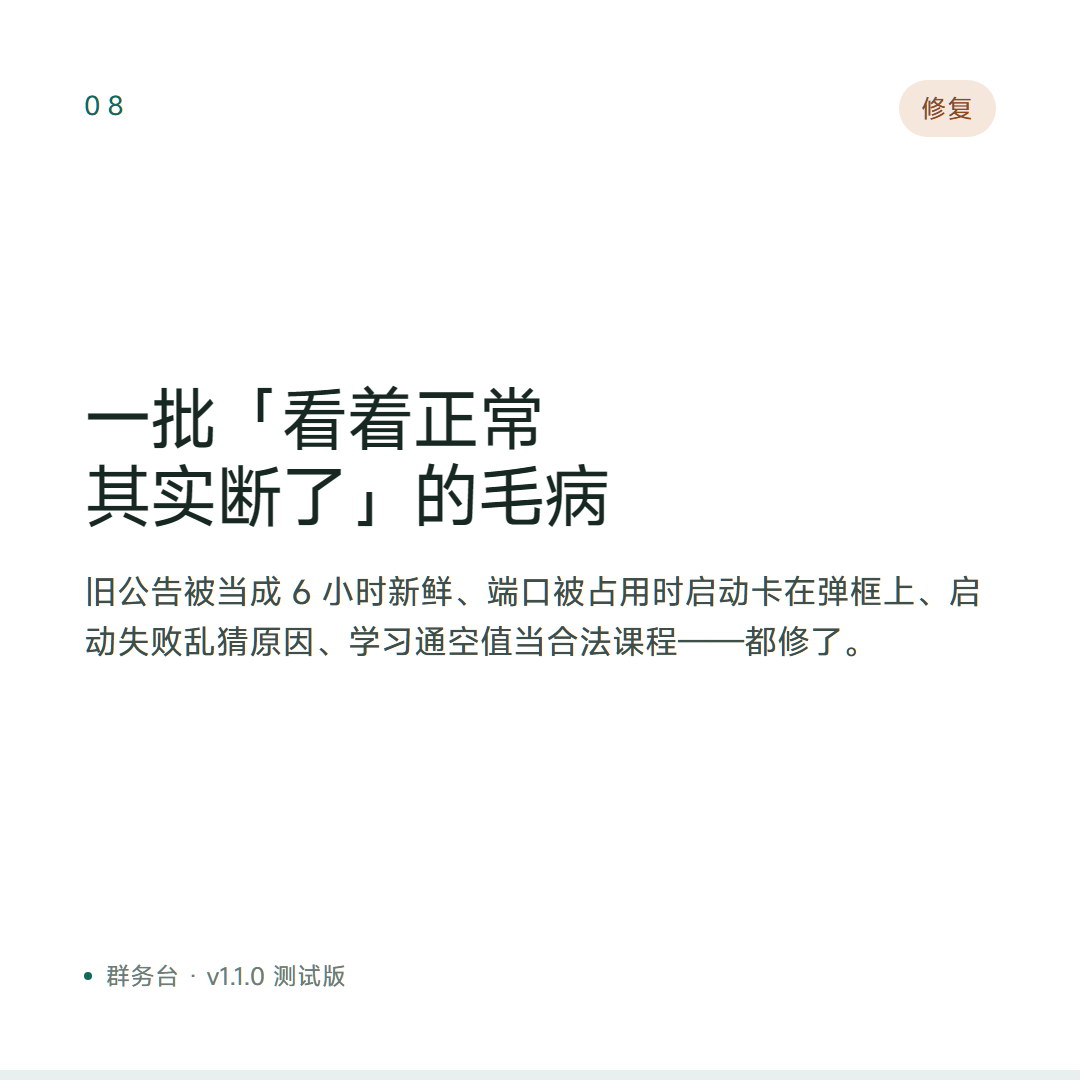
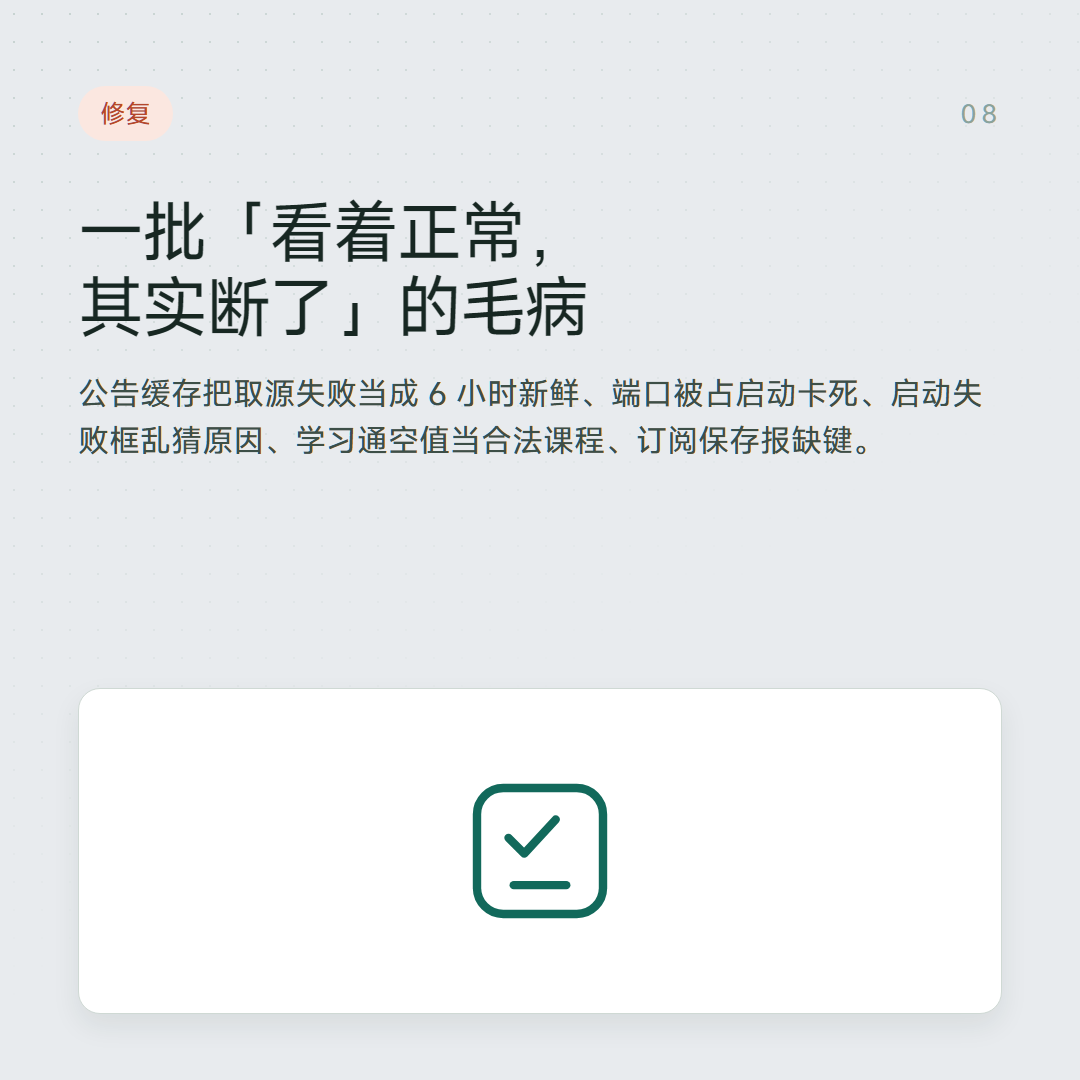
docs: 宣传图第二轮（九宫格产品出镜 + 海报列出 8 处变化）
九宫格改用 App 真机截图（当前发布版实测），06 改用横竖对比图；海报副标题与 8 条变化清单；手机端截图换为真实渲染。

diff --git a/docs/promo/beta-grid.html b/docs/promo/beta-grid.html
@@ -2,106 +2,164 @@
 <html lang="zh-CN">
 <head>
 <meta charset="utf-8">
-<title>群务台 · v1.1.0 测试版 九宫格</title>
+<title>群务台 1.1.0 测试版 · 九宫格</title>
 <style>
-:root{
-  --paper:#fff;--ink:#172722;--muted:#3d4f47;--line:#dfe4e2;
-  --teal:#12695b;--teal-soft:#d6ede7;--warm:#f7efe8;
-  --font:"MiSans","HarmonyOS Sans","PingFang SC","Microsoft YaHei",sans-serif;
-}
+:root{--page:#e8ebee;--paper:#fff;--ink:#172722;--muted:#3d4f47;--teal:#12695b;--teal-soft:#d6ede7;--fix:#b4472c;--fix-bg:#fbe7e0;--font:"MiSans","HarmonyOS Sans","PingFang SC","Microsoft YaHei",sans-serif}
 *{box-sizing:border-box}
-html,body{margin:0;background:#e8ebee;font-family:var(--font);font-synthesis:none;color:var(--ink)}
+html,body{margin:0;background:#fff}
 .sheet{width:3240px;height:3240px;display:grid;grid-template-columns:repeat(3,1080px);grid-template-rows:repeat(3,1080px)}
-.tile{position:relative;overflow:hidden;background:var(--paper);padding:88px 84px;display:flex;flex-direction:column}
-.tile:after{content:"";position:absolute;left:0;right:0;bottom:0;height:10px;background:var(--teal);opacity:.10}
-.idx{font-size:26px;font-weight:700;letter-spacing:.26em;color:var(--teal)}
-.chip{position:absolute;top:80px;right:84px;padding:12px 22px;border-radius:999px;background:var(--teal-soft);color:var(--teal);font-size:25px;font-weight:700;letter-spacing:.06em}
-.chip.fix{background:#f6e7dd;color:#8a4b1e}
-h2{margin:auto 0 0;font-size:68px;line-height:1.13;letter-spacing:-.035em;font-weight:750}
-p{margin:32px 0 auto;font-size:33px;line-height:1.52;color:var(--muted);font-weight:500}
-.foot{margin-top:0;padding-top:34px;display:flex;align-items:center;gap:14px;font-size:24px;color:#6b7d76;letter-spacing:.02em}
-.foot b{width:8px;height:8px;border-radius:50%;background:var(--teal);display:inline-block}
-/* 封面 */
-.cover{background:var(--teal);color:#fff;justify-content:space-between}
-.cover:after{background:#fff;opacity:.14}
-.cover .mark{display:flex;align-items:center;gap:16px;font-size:30px;font-weight:700;letter-spacing:.14em}
-.cover .mark i{display:grid;place-items:center;width:52px;height:52px;border:3px solid #fff;border-radius:50%;font-size:30px;font-style:normal;line-height:1}
-.cover .ver{margin-top:auto}
-.cover .ver .v{font-size:132px;line-height:1;letter-spacing:-.05em;font-weight:750}
-.cover .ver .t{margin-top:18px;font-size:60px;font-weight:700;letter-spacing:.02em}
-.cover .lead{margin-top:36px;font-size:33px;line-height:1.5;color:#cfe6df;font-weight:500}
-.cover .foot{color:#a9cdc4}
-.cover .foot b{background:#8fd0c0}
+.tile{position:relative;overflow:hidden;display:flex;flex-direction:column;padding:86px 78px 66px;background:var(--page);color:var(--ink);font-family:var(--font);font-synthesis:none}
+.tile:before{content:"";position:absolute;inset:0;pointer-events:none;opacity:.45;background-image:radial-gradient(#9eb5ac 1px,transparent 1px);background-size:28px 28px;mask-image:linear-gradient(150deg,black,transparent 60%)}
+.tile>*{position:relative;z-index:1}
+.head{display:flex;align-items:center;justify-content:space-between;gap:24px}
+.chip{padding:11px 22px;border-radius:999px;font-size:25px;font-weight:800;letter-spacing:.02em}
+.chip.new{background:var(--teal);color:#fff}
+.chip.fix{background:var(--fix-bg);color:var(--fix)}
+.idx{font-size:25px;font-weight:800;letter-spacing:.2em;color:#8aa39b;font-variant-numeric:tabular-nums}
+h2{margin:54px 0 0;font-size:66px;line-height:1.14;letter-spacing:-.035em;font-weight:760}
+p{margin:26px 0 0;font-size:31px;line-height:1.5;font-weight:500;color:var(--muted)}
+.visual{margin-top:auto}
+/* ---------- 封面 ---------- */
+.cover{padding:80px 78px 0;background:linear-gradient(168deg,#f3f6f5,#e5e9ec 62%)}
+.cbrand{display:flex;align-items:center;gap:13px;color:var(--teal);font-size:20px;font-weight:800;letter-spacing:.09em}
+.mark{display:grid;place-items:center;width:38px;height:38px;border:2px solid var(--teal);border-radius:50%;font-size:22px;line-height:1;letter-spacing:0}
+.cover h1{margin:36px 0 0;font-size:78px;line-height:1.09;letter-spacing:-.045em;font-weight:760}
+.cmeta{display:flex;align-items:center;gap:18px;margin-top:30px}
+.cbadge{padding:11px 22px;border-radius:999px;background:var(--teal);color:#fff;font-size:25px;font-weight:800;font-variant-numeric:tabular-nums}
+.csub{font-size:27px;font-weight:600;color:var(--muted)}
+.clead{margin:24px 0 0;max-width:860px;font-size:28px;line-height:1.46;font-weight:500;color:var(--muted)}
+.cvisual{position:relative;margin-top:auto;height:566px}
+.cd{position:absolute;left:0;bottom:0;width:100%;border:1px solid #c9d4cf;border-bottom:0;border-radius:15px 15px 0 0;box-shadow:0 -14px 34px rgba(20,49,39,.13)}
+.cp{position:absolute;right:8px;bottom:0;width:268px;border:9px solid #1d2b26;border-bottom:0;border-radius:32px 32px 0 0;box-shadow:0 -12px 30px rgba(20,49,39,.2)}
+/* ---------- 手机框 ---------- */
+.phone{width:404px;margin:0 auto;border:12px solid #1d2b26;border-radius:44px;overflow:hidden;background:#fff;box-shadow:0 24px 46px rgba(20,49,39,.18)}
+.phone img{display:block;width:100%;height:556px;object-fit:cover;object-position:top center}
+.phone.mid img{object-position:center}
+.phone.bot img{object-position:bottom center}
+/* ---------- 桌面窗口 ---------- */
+.win{width:576px;margin:0 auto;border:1px solid #c9d4cf;border-radius:18px;overflow:hidden;background:#fff;box-shadow:0 22px 44px rgba(20,49,39,.15)}
+.win img{display:block;width:100%;height:548px;object-fit:cover;object-position:bottom center}
+/* ---------- 来源卡片 ---------- */
+.sources{display:grid;grid-template-columns:1fr 1fr;gap:20px}
+.src{display:flex;align-items:center;gap:15px;padding:27px 28px;border:1px solid #cfd9d4;border-radius:18px;background:#fff;box-shadow:0 10px 24px rgba(20,49,39,.07)}
+.src i{flex:0 0 auto;width:16px;height:16px;border-radius:50%;background:var(--teal)}
+.src.mute i{background:#b6c4be}
+.src b{font-size:31px;font-weight:750}
+.src s{margin-left:auto;font-size:22px;font-weight:700;text-decoration:none;color:var(--teal)}
+.src.mute s{color:#9aada6}
+/* ---------- 版本流 ---------- */
+.flow{display:grid;justify-items:center;gap:18px;padding-bottom:26px}
+.vcard{min-width:560px;text-align:center;padding:26px 34px;border:1px solid #cfd9d4;border-radius:18px;background:#fff;font-size:33px;font-weight:800;letter-spacing:-.01em;color:#6c8079;font-variant-numeric:tabular-nums}
+.vcard.beta{border-color:#8fbfb2;background:var(--teal-soft);color:var(--teal);box-shadow:0 12px 26px rgba(18,105,91,.14)}
+.arrow{color:#8aa39b;font-size:34px;line-height:1}
+/* ---------- 图标块 ---------- */
+.glyph{display:grid;place-items:center;height:326px;border:1px solid #cfd9d4;border-radius:22px;background:#fff;box-shadow:0 12px 28px rgba(20,49,39,.08)}
+.badge-rot{align-self:flex-start;margin-top:26px;padding:11px 22px;border-radius:999px;background:var(--teal);color:#fff;font-size:24px;font-weight:800}
+.orient{display:flex;align-items:flex-start;justify-content:center;gap:52px;padding-bottom:36px}
+.oitem{display:grid;justify-items:center;gap:20px}
+.ph{position:relative;display:grid;place-items:center;border:5px solid #1d2b26;border-radius:24px;background:#fff}
+.ph.l{width:252px;height:132px;border-color:#b6c4be}
+.ph.l:after{content:"";position:absolute;left:-14px;right:-14px;top:50%;height:6px;border-radius:3px;background:var(--fix);transform:rotate(-16deg)}
+.ph.p{width:154px;height:268px;border-color:var(--teal)}
+.cap{font-size:24px;font-weight:700;color:#8aa39b}
+.cap.ok{color:var(--teal)}
 </style>
 </head>
 <body>
 <div class="sheet">
 
-  <section class="tile cover">
-    <div class="mark"><i>✓</i><span>群务台</span></div>
-    <div class="ver">
-      <div class="v">v1.1.0</div>
-      <div class="t">测试版 Beta</div>
-      <p class="lead">群里的通知，自动变成待办。<br>相对 v1.0.0 正式版，这一版有 8 处变化 —— 往后翻。</p>
+  <!-- 1 封面 -->
+  <div class="tile cover">
+    <div class="cbrand"><span class="mark">✓</span><span>群务台 · notice-hub</span></div>
+    <h1>群里的通知，<br>自动变成待办</h1>
+    <div class="cmeta"><span class="cbadge">v1.1.0 测试版</span><span class="csub">相对 v1.0.0 正式版，有 8 处变化</span></div>
+    <p class="clead">QQ 群、钉钉群、学习通、微信群 → 一份待办清单，一个日历。</p>
+    <div class="cvisual">
+      <img class="cd" src="../screenshots/desktop-tasks.png" alt="群务台桌面端">
+      <img class="cp" src="shots/phone-overview.png" alt="群务台手机端">
     </div>
-    <div class="foot"><b></b><span>github.com/ExpertKT/notice-hub</span></div>
-  </section>
+  </div>
 
-  <section class="tile">
-    <span class="idx">01</span><span class="chip">新增</span>
-    <h2>钉钉群、学习通、微信群<br>也一起收进来</h2>
-    <p>v1.0.0 只认 QQ 群。这版多了三条来源：钉钉群消息、学习通作业与考试、微信群。</p>
-    <div class="foot"><b></b><span>群务台 · v1.1.0 测试版</span></div>
-  </section>
+  <!-- 2 多来源 -->
+  <div class="tile">
+    <div class="head"><span class="chip new">新增</span><span class="idx">01</span></div>
+    <h2>钉钉群、学习通、<br>微信群也收进来</h2>
+    <p>v1.0.0 只接 QQ 群。这一版把另外三种来源接进同一条待办流水线，各自开关、各自的群白名单。</p>
+    <div class="visual sources">
+      <div class="src mute"><i></i><b>QQ 群</b><s>原有</s></div>
+      <div class="src"><i></i><b>钉钉群</b><s>新增</s></div>
+      <div class="src"><i></i><b>学习通</b><s>新增</s></div>
+      <div class="src"><i></i><b>微信群</b><s>新增</s></div>
+    </div>
+  </div>
 
-  <section class="tile">
-    <span class="idx">02</span><span class="chip">新增</span>
-    <h2>设置页一键检查更新，<br>下载即覆盖</h2>
-    <p>不用再手动解压、不用去 Releases 找包。查到新版本 → 下载 → 就地覆盖，并校验 sha256；你的 .env 和 data 不动。</p>
-    <div class="foot"><b></b><span>群务台 · v1.1.0 测试版</span></div>
-  </section>
+  <!-- 3 一键更新 -->
+  <div class="tile">
+    <div class="head"><span class="chip new">新增</span><span class="idx">02</span></div>
+    <h2>设置页一键更新，<br>下载即覆盖</h2>
+    <p>以前要自己去 GitHub 找包、手动解压。现在设置页能查新版本、下载并就地覆盖，装完校验 sha256。</p>
+    <div class="visual flow">
+      <div class="vcard">v1.0.0 正式版</div>
+      <div class="arrow">↓</div>
+      <div class="vcard beta">v1.1.0-beta.1 测试版</div>
+    </div>
+  </div>
 
-  <section class="tile">
-    <span class="idx">03</span><span class="chip">新增</span>
-    <h2>接入自检：<br>卡住时告诉你卡在哪</h2>
-    <p>把「能不能收消息」逐段查开，直接指出第一处断点该修什么。顺带修掉根因——扫码登录成功、页面却毫无反应。</p>
-    <div class="foot"><b></b><span>群务台 · v1.1.0 测试版</span></div>
-  </section>
+  <!-- 4 接入自检 -->
+  <div class="tile">
+    <div class="head"><span class="chip new">新增</span><span class="idx">03</span></div>
+    <h2>卡住时，<br>告诉你卡在哪</h2>
+    <p>新增接入自检：QQ 登录、引擎托管、公网日历、最近同步逐项判绿黄红，并给出下一步该做什么。</p>
+    <div class="visual win"><img src="../screenshots/rail-panels.png" alt="群务台服务自检面板"></div>
+  </div>
 
-  <section class="tile">
-    <span class="idx">04</span><span class="chip fix">修复</span>
+  <!-- 5 手机扫码闪退 -->
+  <div class="tile">
+    <div class="head"><span class="chip fix">修复</span><span class="idx">04</span></div>
     <h2>手机点扫码，<br>不再闪退</h2>
-    <p>v1.0.0 的包一进扫码页就崩：扫码库少声明了 androidx.core。现已补上，实测点扫码 → 取景框 → 相机权限 → 返回，全程不崩。</p>
-    <div class="foot"><b></b><span>群务台 · v1.1.0 测试版</span></div>
-  </section>
+    <p>崩溃栈是 android 找不到 androidx.core：扫码库少声明了这个依赖。现已补上，实测点扫码 → 取景框 → 相机权限 → 返回，全程不崩。</p>
+    <div class="visual phone mid"><img src="shots/phone-connect.png" alt="群务台手机连接页"></div>
+  </div>
 
-  <section class="tile">
-    <span class="idx">05</span><span class="chip">新增</span>
-    <h2>连不上、令牌失效，<br>都有出口</h2>
-    <p>三种状态分别给不同提示，页面上多了「重新配对」按钮。以前只有长按返回键一条暗路，App 里没有任何文字提示。</p>
-    <div class="foot"><b></b><span>群务台 · v1.1.0 测试版</span></div>
-  </section>
+  <!-- 6 配对出口 -->
+  <div class="tile">
+    <div class="head"><span class="chip new">新增</span><span class="idx">05</span></div>
+    <h2>连不上、失效，<br>都有出口</h2>
+    <p>连不上 / 令牌失效 / 从没连上过，分别给不同提示；页面上多了「重新配对」按钮，不用再猜长按返回键。</p>
+    <div class="visual phone"><img src="shots/phone-relink.png" alt="群务台手机连不上时的提示"></div>
+  </div>
 
-  <section class="tile">
-    <span class="idx">06</span><span class="chip fix">修复</span>
-    <h2>扫码页不再横着</h2>
-    <p>扫码库自带清单把这一页钉成了横屏，现在跟随手机方向。</p>
-    <div class="foot"><b></b><span>群务台 · v1.1.0 测试版</span></div>
-  </section>
+  <!-- 7 扫码页横屏 -->
+  <div class="tile">
+    <div class="head"><span class="chip fix">修复</span><span class="idx">06</span></div>
+    <h2>扫码页<br>不再横着</h2>
+    <p>扫码库自带清单把取景页钉成了横屏，现已改为跟随手机方向。</p>
+    <span class="badge-rot">横屏 → 跟随手机</span>
+    <div class="visual orient">
+      <div class="oitem"><span class="ph l"><svg viewBox="0 0 64 64" width="56" height="56" fill="none" stroke="#b6c4be" stroke-width="6" stroke-linecap="round"><path d="M6 22V10a4 4 0 0 1 4-4h12M42 6h12a4 4 0 0 1 4 4v12M58 42v12a4 4 0 0 1-4 4H42M22 58H10a4 4 0 0 1-4-4V42"/></svg></span><span class="cap">以前：横着拿</span></div>
+      <div class="oitem"><span class="ph p"><svg viewBox="0 0 64 64" width="60" height="60" fill="none" stroke="#12695b" stroke-width="6" stroke-linecap="round"><path d="M6 22V10a4 4 0 0 1 4-4h12M42 6h12a4 4 0 0 1 4 4v12M58 42v12a4 4 0 0 1-4 4H42M22 58H10a4 4 0 0 1-4-4V42"/></svg></span><span class="cap ok">现在：跟随手机</span></div>
+    </div>
+  </div>
 
-  <section class="tile">
-    <span class="idx">07</span><span class="chip">新增</span>
-    <h2>收件箱里<br>能看见附件图</h2>
-    <p>QQ 群里的图片附件直接显示在收件箱，正文照常保留；取图接口要鉴权，只认唯一文件，只送图片。</p>
-    <div class="foot"><b></b><span>群务台 · v1.1.0 测试版</span></div>
-  </section>
+  <!-- 8 收件箱附件图 -->
+  <div class="tile">
+    <div class="head"><span class="chip new">新增</span><span class="idx">07</span></div>
+    <h2>收件箱里，<br>能看见附件图</h2>
+    <p>群里发的截图、课表、通知单，以前只剩一行文字。现在附件图直接渲染在收件箱正文下方，点不开的会自己退场。</p>
+    <div class="visual glyph">
+      <svg viewBox="0 0 64 64" width="168" height="168" fill="none" stroke="#12695b" stroke-width="3.2" stroke-linecap="round" stroke-linejoin="round"><rect x="6" y="11" width="52" height="42" rx="7"/><circle cx="22" cy="26" r="5"/><path d="M10 47l14-13 10 9 9-8 11 12"/></svg>
+    </div>
+  </div>
 
-  <section class="tile">
-    <span class="idx">08</span><span class="chip fix">修复</span>
-    <h2>一批「看着正常<br>其实断了」的毛病</h2>
-    <p>旧公告被当成 6 小时新鲜、端口被占用时启动卡在弹框上、启动失败乱猜原因、学习通空值当合法课程——都修了。</p>
-    <div class="foot"><b></b><span>群务台 · v1.1.0 测试版</span></div>
-  </section>
+  <!-- 9 一批隐蔽毛病 -->
+  <div class="tile">
+    <div class="head"><span class="chip fix">修复</span><span class="idx">08</span></div>
+    <h2>一批「看着正常，<br>其实断了」的毛病</h2>
+    <p>公告缓存把取源失败当成 6 小时新鲜、端口被占启动卡死、启动失败框乱猜原因、学习通空值当合法课程、订阅保存报缺键。</p>
+    <div class="visual glyph">
+      <svg viewBox="0 0 64 64" width="168" height="168" fill="none" stroke="#12695b" stroke-width="3.2" stroke-linecap="round" stroke-linejoin="round"><rect x="8" y="8" width="48" height="48" rx="10"/><path d="M20 27l6 6 12-13"/><path d="M22 45h20"/></svg>
+    </div>
+  </div>
 
 </div>
 </body>

diff --git a/docs/promo/poster.html b/docs/promo/poster.html
@@ -6,7 +6,7 @@
 <title>群务台 · notice-hub</title>
 <style>
 :root{--page:#e8ebee;--paper:#fff;--paper-alt:#f2f4f6;--ink:#172722;--muted:#3d4f47;--line:#b0b8bd;--teal:#12695b;--teal-soft:#d6ede7;--warm:#f7efe8;--shadow:0 18px 40px rgba(20,49,39,.10);--font:"MiSans","HarmonyOS Sans","PingFang SC","Microsoft YaHei",sans-serif}
-*{box-sizing:border-box}html,body{margin:0;background:var(--page);color:var(--ink);font-family:var(--font);font-synthesis:none}body{min-width:320px}.poster{position:relative;overflow:hidden;width:100vw;height:100vh;min-height:560px;padding:clamp(30px,4.2vw,72px) clamp(30px,5.4vw,104px) clamp(24px,3.4vw,58px);background:var(--page)}.poster:before{content:"";position:absolute;inset:0;pointer-events:none;opacity:.4;background-image:radial-gradient(#9eb5ac 1px,transparent 1px);background-size:28px 28px;mask-image:linear-gradient(90deg,black,transparent 45%)}.frame{position:relative;z-index:1;display:grid;grid-template-columns:minmax(0,.94fr) minmax(560px,1.34fr);gap:clamp(28px,3.4vw,72px);height:100%;max-width:1740px;margin:auto;align-items:center}.copy{display:flex;flex-direction:column;align-items:flex-start;min-width:0}.brand{display:flex;align-items:center;gap:12px;margin-bottom:clamp(34px,5vh,62px);color:var(--teal);font-size:19px;font-weight:700;letter-spacing:.08em}.brand-mark{display:grid;place-items:center;width:34px;height:34px;border:2px solid var(--teal);border-radius:50%;font-size:20px;line-height:1}.title{margin:0;max-width:700px;font-size:clamp(42px,5.2vw,88px);line-height:1.08;letter-spacing:-.055em;font-weight:750}.subtitle{margin:24px 0 0;color:var(--muted);font-size:clamp(18px,1.7vw,29px);line-height:1.4;font-weight:500}.points{display:grid;gap:14px;margin:38px 0 0;padding:0;list-style:none;color:var(--muted);font-size:clamp(14px,1.15vw,19px);line-height:1.45}.points li{display:flex;gap:12px;align-items:flex-start}.points li:before{content:"";flex:0 0 8px;width:8px;height:8px;margin-top:.58em;border-radius:50%;background:var(--teal)}.footer{display:flex;flex-wrap:wrap;gap:12px 20px;align-items:center;margin-top:auto;padding-top:30px;color:var(--muted);font-size:clamp(11px,.85vw,14px);line-height:1.4}.badge{padding:8px 12px;border:1px solid #b4c3bd;border-radius:999px;background:rgba(255,255,255,.55)}.url{font-variant-numeric:tabular-nums;letter-spacing:.02em}.visual{position:relative;min-width:0;display:flex;align-items:center;justify-content:center;padding:18px 0 18px 20px}.visual:before{content:"";position:absolute;inset:12% -4% 5% 8%;border:1px solid rgba(18,105,91,.22);border-radius:24px;background:rgba(214,237,231,.38);transform:rotate(-2deg);z-index:-1}.desktop-shot{display:block;width:100%;max-height:none;object-fit:cover;object-position:top left;border:1px solid #b6c8c0;border-radius:16px;box-shadow:var(--shadow);background:#fff}.phone-shot{position:absolute;right:-3%;bottom:-8%;width:22%;max-height:none;object-fit:cover;object-position:top left;border:5px solid #fff;border-radius:22px;box-shadow:0 15px 30px rgba(20,49,39,.18);transform:rotate(2.5deg);background:#fff}.corner{position:absolute;right:0;top:2%;width:44px;height:44px;border-top:1px solid var(--teal);border-right:1px solid var(--teal)}
+*{box-sizing:border-box}html,body{margin:0;background:var(--page);color:var(--ink);font-family:var(--font);font-synthesis:none}body{min-width:320px}.poster{position:relative;overflow:hidden;width:100vw;height:100vh;min-height:560px;padding:clamp(30px,4.2vw,72px) clamp(30px,5.4vw,104px) clamp(24px,3.4vw,58px);background:var(--page)}.poster:before{content:"";position:absolute;inset:0;pointer-events:none;opacity:.4;background-image:radial-gradient(#9eb5ac 1px,transparent 1px);background-size:28px 28px;mask-image:linear-gradient(90deg,black,transparent 45%)}.frame{position:relative;z-index:1;display:grid;grid-template-columns:minmax(0,.94fr) minmax(560px,1.34fr);gap:clamp(28px,3.4vw,72px);height:100%;max-width:1740px;margin:auto;align-items:center}.copy{display:flex;flex-direction:column;align-items:flex-start;min-width:0}.brand{display:flex;align-items:center;gap:12px;margin-bottom:clamp(34px,5vh,62px);color:var(--teal);font-size:19px;font-weight:700;letter-spacing:.08em}.brand-mark{display:grid;place-items:center;width:34px;height:34px;border:2px solid var(--teal);border-radius:50%;font-size:20px;line-height:1}.title{margin:0;max-width:700px;font-size:clamp(42px,5.2vw,88px);line-height:1.08;letter-spacing:-.055em;font-weight:750}.subtitle{margin:24px 0 0;color:var(--muted);font-size:clamp(18px,1.7vw,29px);line-height:1.4;font-weight:500}.changes{display:grid;grid-template-columns:1fr 1fr;gap:11px 26px;margin:34px 0 0;padding:0;list-style:none;color:var(--muted);font-size:clamp(13px,1.02vw,17px);line-height:1.36}.changes li{display:flex;gap:10px;align-items:flex-start}.changes b{flex:0 0 auto;display:grid;place-items:center;width:1.6em;height:1.6em;margin-top:.05em;border-radius:7px;background:var(--teal-soft);color:var(--teal);font-size:.8em;font-weight:800;font-variant-numeric:tabular-nums}.footer{display:flex;flex-wrap:wrap;gap:12px 20px;align-items:center;margin-top:auto;padding-top:30px;color:var(--muted);font-size:clamp(11px,.85vw,14px);line-height:1.4}.badge{padding:8px 12px;border:1px solid #b4c3bd;border-radius:999px;background:rgba(255,255,255,.55)}.url{font-variant-numeric:tabular-nums;letter-spacing:.02em}.visual{position:relative;min-width:0;display:flex;align-items:center;justify-content:center;padding:18px 0 18px 20px}.visual:before{content:"";position:absolute;inset:12% -4% 5% 8%;border:1px solid rgba(18,105,91,.22);border-radius:24px;background:rgba(214,237,231,.38);transform:rotate(-2deg);z-index:-1}.desktop-shot{display:block;width:100%;max-height:none;object-fit:cover;object-position:top left;border:1px solid #b6c8c0;border-radius:16px;box-shadow:var(--shadow);background:#fff}.phone-shot{position:absolute;right:-3%;bottom:-8%;width:22%;max-height:none;object-fit:cover;object-position:top left;border:5px solid #fff;border-radius:22px;box-shadow:0 15px 30px rgba(20,49,39,.18);transform:rotate(2.5deg);background:#fff}.corner{position:absolute;right:0;top:2%;width:44px;height:44px;border-top:1px solid var(--teal);border-right:1px solid var(--teal)}
 @media (max-aspect-ratio:1.25/1){.poster{height:auto;min-height:100vh;padding:44px 34px 30px}.frame{grid-template-columns:1fr;gap:30px;min-height:calc(100vh - 74px);align-content:start}.brand{margin-bottom:36px}.title{font-size:clamp(42px,8vw,70px)}.visual{order:2;padding:10px 0 30px}.desktop-shot{max-height:none}.phone-shot{right:1%;bottom:-5%;width:24%;max-height:none}.footer{margin-top:32px}}
 @media (max-width:700px){.poster{padding:34px 24px 26px}.frame{gap:24px}.brand{margin-bottom:34px;font-size:16px}.title{font-size:clamp(38px,10vw,58px)}.subtitle{margin-top:18px;font-size:19px}.points{margin-top:26px;gap:10px;font-size:14px}.footer{margin-top:24px;gap:8px;font-size:10px}.badge{padding:6px 9px}.visual{padding-top:2px}.desktop-shot{max-height:none}.phone-shot{width:25%;border-width:3px;border-radius:14px}}
 @media (prefers-reduced-motion:reduce){.desktop-shot,.phone-shot,.visual:before{transform:none}}
@@ -19,17 +19,22 @@
       <div class="brand"><span class="brand-mark">✓</span><span>群务台</span></div>
       <h1 class="title">群里的通知，自动变成待办</h1>
       <p class="subtitle">v1.1.0 测试版 · 相对 v1.0.0 有 8 处变化</p>
-      <ul class="points">
-        <li>钉钉群、学习通、微信群，也一起收进来</li>
-        <li>设置页一键检查更新，下载即覆盖</li>
-        <li>手机点扫码不再闪退，连不上也有出口</li>
-      </ul>
+      <ol class="changes">
+        <li><b>1</b><span>钉钉群、学习通、微信群一起收进来</span></li>
+        <li><b>2</b><span>设置页一键检查更新，下载即覆盖</span></li>
+        <li><b>3</b><span>接入自检：卡住时告诉你卡在哪</span></li>
+        <li><b>4</b><span>手机点扫码不再闪退</span></li>
+        <li><b>5</b><span>连不上 / 失效都有出口</span></li>
+        <li><b>6</b><span>扫码页不再横屏</span></li>
+        <li><b>7</b><span>收件箱里能看见附件图</span></li>
+        <li><b>8</b><span>一批「看着正常其实断了」的毛病</span></li>
+      </ol>
       <div class="footer"><span class="badge">Windows 出货包 · 安卓 App · 源码开放 · 非商业许可（商用需授权） · v1.1.0-beta.1</span><span class="url">github.com/ExpertKT/notice-hub</span></div>
     </section>
     <section class="visual" aria-label="群务台界面截图">
       <span class="corner"></span>
       <img class="desktop-shot" src="../screenshots/desktop-tasks.png" alt="群务台桌面待办台截图">
-      <img class="phone-shot" src="../screenshots/phone-tasks.png" alt="群务台手机端截图">
+      <img class="phone-shot" src="shots/phone-overview.png" alt="群务台手机端截图">
     </section>
   </div>
 </main>
